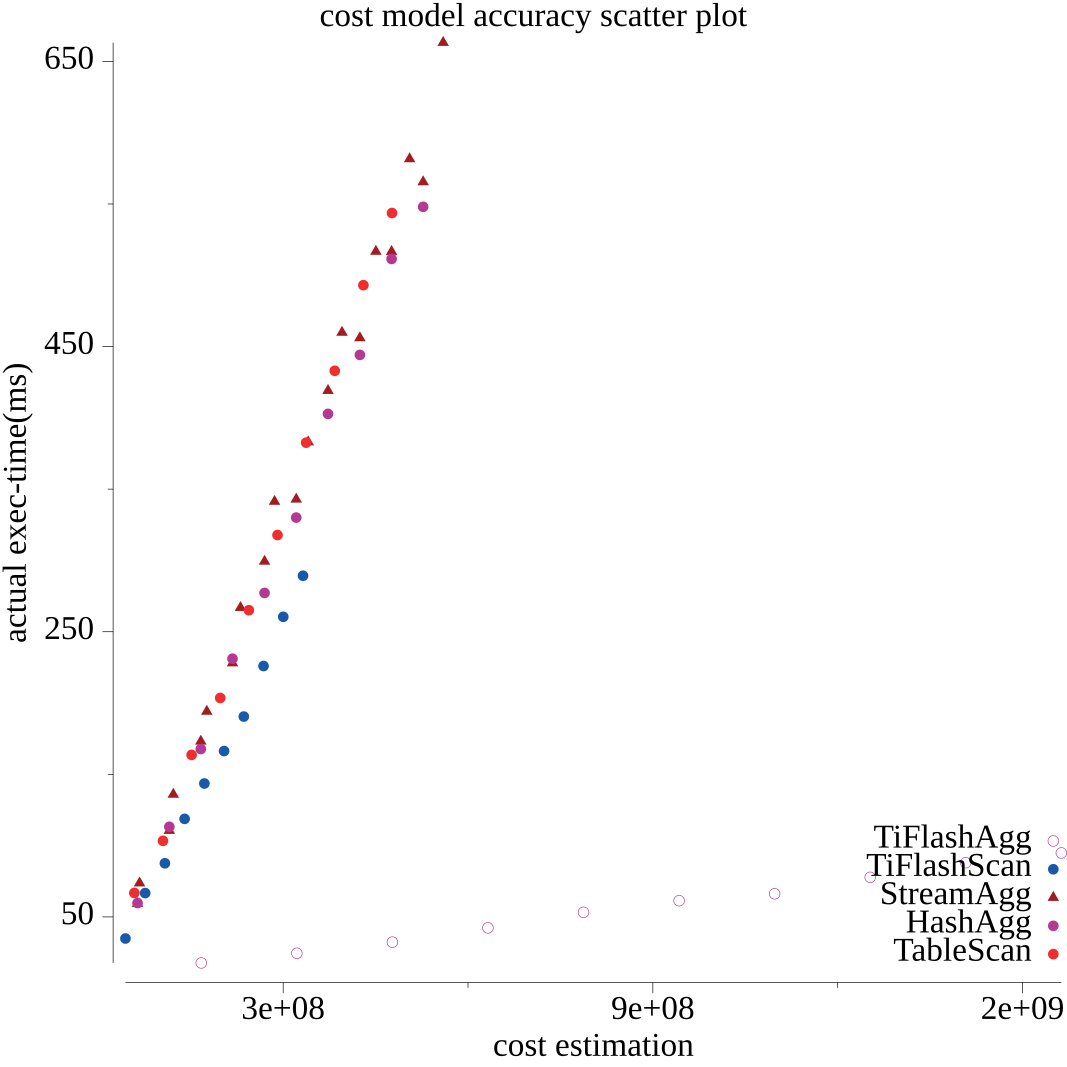
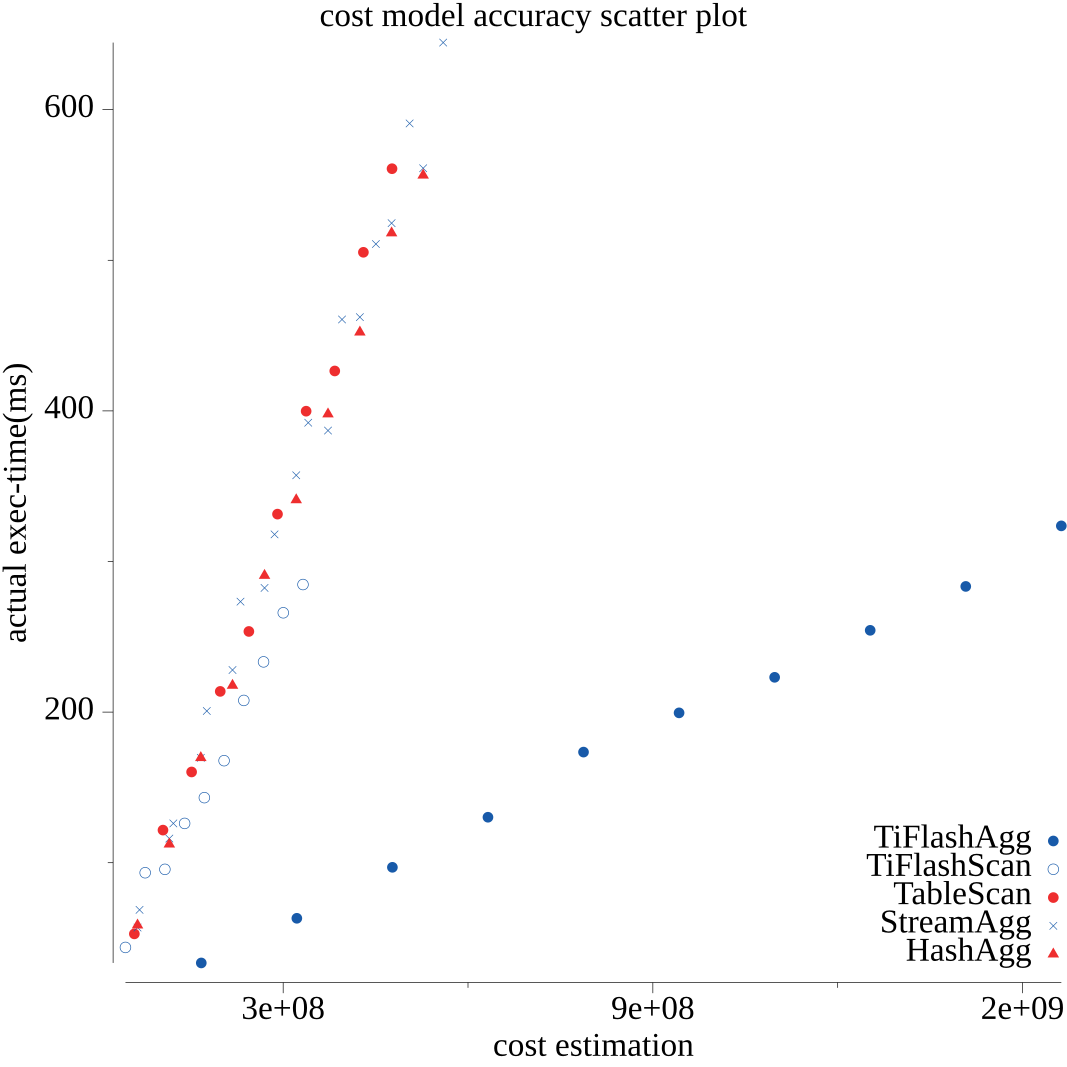
fixup

diff --git a/cost/costcali.go b/cost/costcali.go
@@ -57,14 +57,14 @@ func CostCalibration() {
 
 	whiteList := []string{
 		// TiKV Plans
-		//"TableScan",
+		"TableScan",
 		//"IndexScan",
 		//"WideTableScan",
 		//"WideIndexScan",
 		//"DescTableScan",
 		//"DescIndexScan",
-		//"StreamAgg",
-		//"HashAgg",
+		"StreamAgg",
+		"HashAgg",
 		//"Sort",
 		//"HashJoin",
 		//"MergeJoin",
@@ -87,7 +87,7 @@ func CostCalibration() {
 	// (30,	30,		4,		100,	150,		0,		1.2*1e7, 	10)
 	recalculateAndDraw(rs,
 		&CostFactors{30, 30, 4, 100, 150, 0, 1.2 * 1e7, 10}, // for TiDB Plans
-		&CostFactors{1, 1, 4, 100, 150, 0, 1.2 * 1e7, 10},   // for TiFlash Plans
+		&CostFactors{2, 2, 4, 100, 150, 0, 1.2 * 1e7, 4},    // for TiFlash Plans
 		&CostFactors{30, 30, 4, 100, 150, 0, 1.2 * 1e7, 10}) // for MPP Plans
 	//recalculateAndDraw(rs, nil)
 
